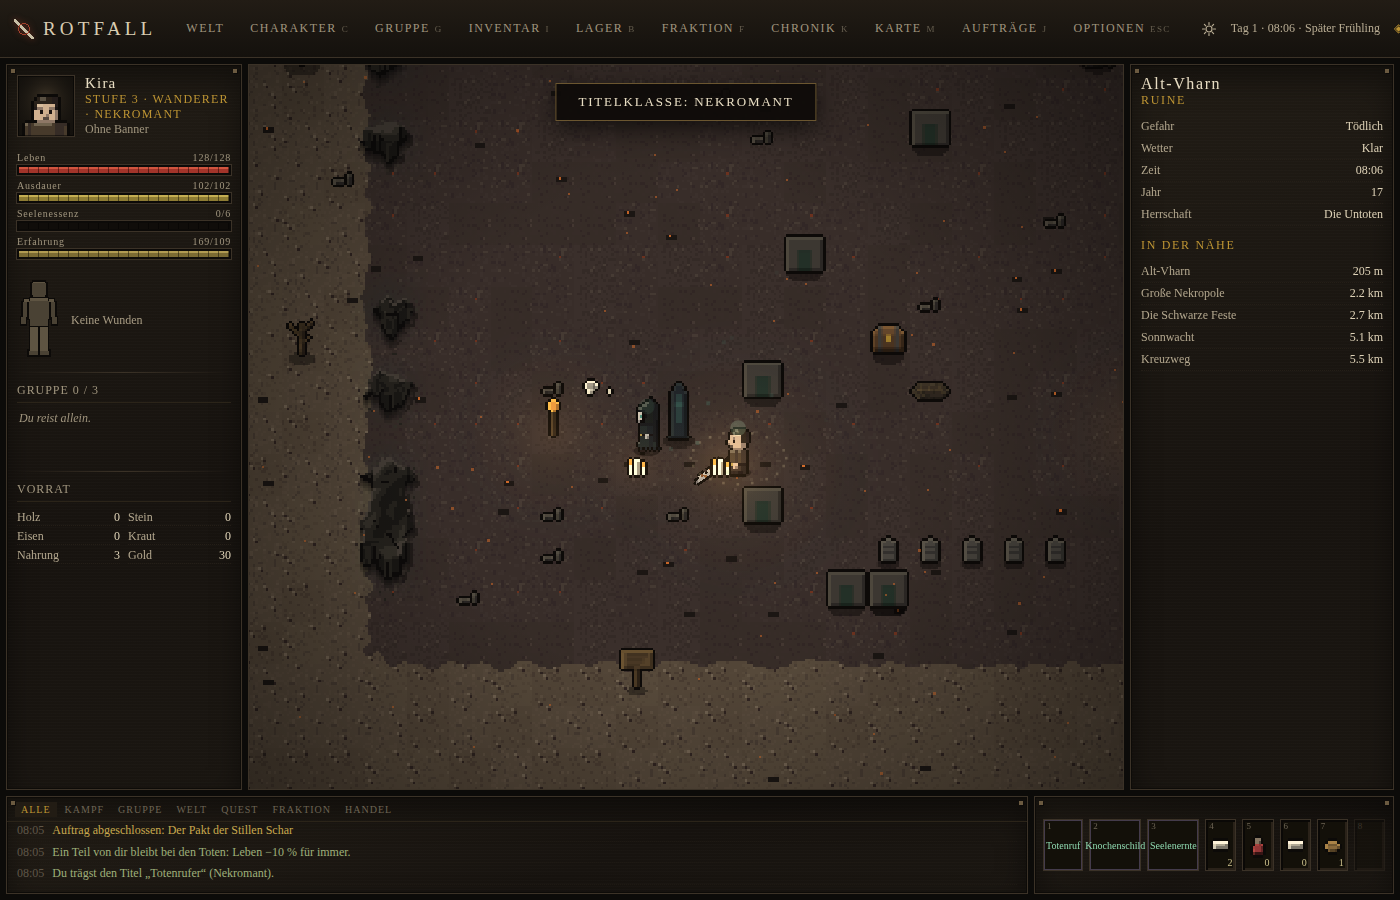
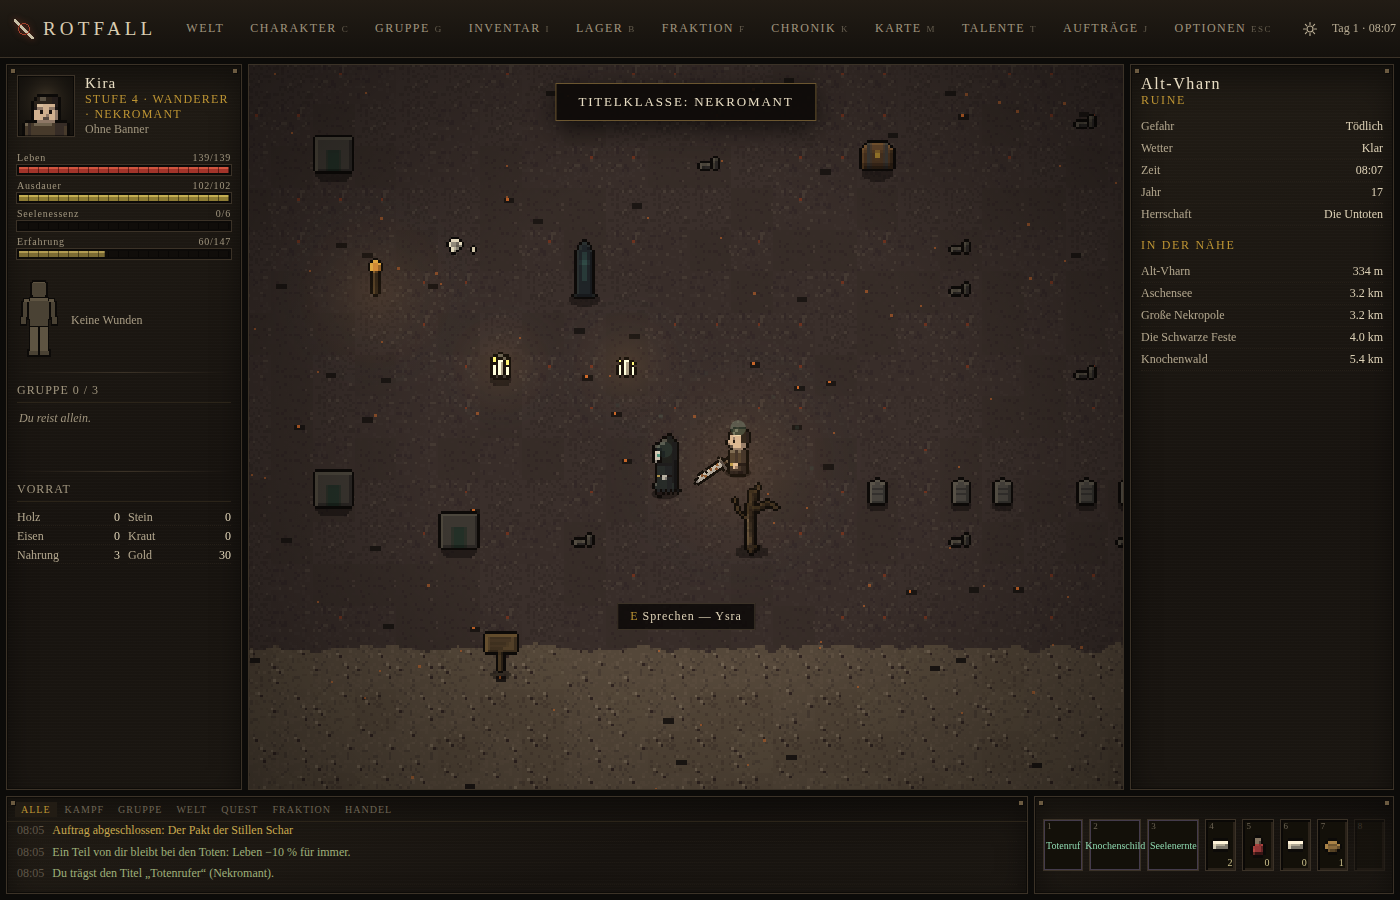
Doku Session 5: GDD, Bug-Ledger, Changelog, Session-Log, Phasenstatus, Datenschemata
Claude-Session: https://claude.ai/code/session_01AKcDTfw4AAQjG6Z4WrECqU

diff --git a/docs/GDD.md b/docs/GDD.md
@@ -33,7 +33,7 @@ Entscheidung (Master-Prompt §21, Optionen A/B, keine stille Variante D):
 | Wolf, Wildschwein | nein | **B — lauert** 90 Spielminuten am Eingang; kommt der Spieler zurück, greift es sofort an. Danach misstrauisch zurück (Sichtweite ×1,5 für 5 h) |
 | Gorak (Boss) | nein | **Hält seine Halle**: verlässt die Grube nie, bricht die Jagd ab (Arena-Bindung als bewusste Designentscheidung) |
 | Wächter der Nekropole | ja | **A — folgt** (Untoter; steigt nur aus der Gruft, wenn ein Fremder die Urne holen will) |
-| Diener (Nekromant) | — | folgen ihrem Herrn nicht über Kartengrenzen; der Ruf verklingt nach 60 s ohnehin (flüchtig, nie gespeichert) |
+| Diener (Nekromant), Geisterwolf (Druide) | — | **gehen mit ihrem Herrn** durch jeden Eingang (Session 5); flüchtig, nie gespeichert |
 
 - Verfolger: nur wer den Spieler ins Visier hatte (Aggro/Verfolgung) und < 560 px entfernt war.
 - Enge Tür: höchstens 4 Folgende, weitere lauern draußen.
@@ -188,8 +188,36 @@ der Durchgangsstraße bzw. an Fluss/Kai, damit Weltstraßen anschließen und kei
 - Der alte Kern (aus der ersten Generierung) zieht beim Ausbau mit um; Straßenstücke, die dadurch ins Leere liefen, werden
   per Breitensuche an das Stadtnetz angeschlossen; jede Tür bekommt einen Trampelpfad (verlassene Häuser nicht).
 - Eine Siedlung hat eine Region (die ihres Ankers) — für Farbwelt und Klang.
-- Nicht getan: die Weltkarte selbst (512×512) ist nicht größer geworden. Zwischen Eren und Nordfurt liegen jetzt ~18 statt
-  ~24 Kacheln (Fluss, Brücke). Eine größere Karte bräuchte ein neues Spielstandformat → Rückfrage an den Nutzer.
+- Session 5: die Karte selbst ist jetzt 1,5× größer (siehe „Weltmaßstab“), die Städte sind zusätzlich um ~15 % gestreckt
+  (Eren 1,4×1,5, Nordfurt 1,7, Salzhafen 1,45, Kreuzweg 1,5, Aschfurt 1,7, Sonnwacht 1,45) und bekommen **Randhäuser**
+  nach Regeln statt Koordinaten (`outskirts`: freier Grund, ≥ 3 Kacheln zu jedem Haus, ≥ 2 zum Rand, Tür zur nächsten
+  Straße ≤ 8 Kacheln, Kandidaten in Hash-Reihenfolge — deterministisch, nicht im Raster). Eren–Nordfurt: ~37 Kacheln (vorher ~18).
+
+## Weltmaßstab (Session 5 — Nutzerwunsch: „die Weltkarte soll größer werden, damit mehr Häuser und mehr Abstand möglich sind“)
+**Entscheidung: hochrechnen statt neu zeichnen.** Die Welt wird wie bisher im Entwurfsmaßstab 512×512 erzeugt — alle
+handgesetzten Orte, Straßen, Szenen und der Grubenpfad stehen so im Code und bleiben lesbar — und dann um `WS = 1,5`
+auf 768×768 hochgerechnet (`resampleWorld`): Gelände per nächstem Nachbarn (Straßen/Flüsse/Mauern 1–2 Kacheln breit),
+Props auf die Mitte ihrer Entwurfskachel, Zäune/Palisaden lückenlos nachgezogen, Wälder mit Hash nachverdichtet
+(sonst ×2,25 dünner). Erst danach entstehen die Städte im Weltmaßstab — Häuser verzerren nie.
+- `worldPt(x, y)`: Entwurfspunkt → Weltkachel (in Städten über deren Streckung). Alle festen Koordinaten in game.js/sim.js
+  (Spawngebiete, Wachposten, Arbeitsplätze, Karawane, Start, Ankunft an der Grube) laufen darüber.
+- Spawngebiete wachsen mit (Radius ×1,5, Deckel ×1,25) → Gegnerdichte je Fläche sinkt: mehr Ruhe zwischen Begegnungen.
+- Warum 1,5 und nicht 2: Generierung, Spielstand (1,1 → 1,4 MB) und Wegfindung wachsen quadratisch; 1,5 verdoppelt die
+  Fläche und hält Update ≤ 1,7 ms. Die Grube (Innenkarte) bleibt unverändert.
+- Spielstand v3; v2 wird umgerechnet (siehe CHANGELOG), v1 bleibt inkompatibel.
+
+## Skill-Baum (Session 5)
+- 1 Talentpunkt zum Start und je Stufe (alte Stände: Stufe − 1 rückwirkend). Knoten brauchen **einen** gelernten Knoten
+  darüber (Pfade statt Pflichtketten). Daten: `SKILL_TREE`/`SKILL_BRANCHES` (data.js), Fenster „Talente“ (T).
+- **Allgemeine Zweige** Kampf / Magie / Überleben, je 7 Knoten (Leben, Schaden, Rüstung, Krit, Ausdauer, Mana, Abklingzeit,
+  Zauberschaden, Heilung, Tempo, Ausweichen, Gepäck) und je 2 Schlüsselknoten, die einander nicht ausschließen, aber
+  jeder hat einen Preis: Berserker (+25 % Schaden unter 30 % Leben / +15 % erlittener Schaden), Bollwerk (Rüstung +30 % /
+  Tempo −10 %), Glaskanone (Zauber +30 % / Leben −15 %), Gelehrter Geist (Abklingzeit −15 % / Waffenschaden −15 %),
+  Zweiter Atem (Rettung unter 25 % alle 3 min / Leben −5 %), Wildnisläufer (draußen schneller / in Siedlungen langsamer).
+- **Titelzweige** (Nekromantie, Hexerei, Hainkunde) sind sichtbar, aber versiegelt, bis die Titelklasse erworben ist —
+  man soll sehen, wofür sich der Weg lohnt. Schlüsselknoten: Legion (3 Diener / Waffenschaden −20 %), Blutpakt
+  (Titelzauber +25 % / Verderbnis sinkt nie), Hüter des Hains (Wald +15 % Schaden, +3 Rüstung / Stein, Stadt −10 %).
+- Kein Zurücksetzen der Punkte (noch). Offene Frage: Umlernen gegen Gold bei einem Lehrer?
 
 ## Titelklassen (Session 4 — Nutzerwunsch: „Klassen, die man später freischaltet, wie Titel mit besonderen Fähigkeiten“)
 **Struktur.** Zwei Schichten statt einer:
@@ -233,11 +261,34 @@ wäre. Alte Stände: Hexenmeister-Grundklasse → Magier + Titel Hexenmeister (o
 ab Ruf −25 an, wenn sie ihn sehen (Leine und Buße wie sonst, danach 3 h misstrauisch statt sofort wieder zornig).
 Bewohner der Städte grüßen anders (je Stadt eine Zeile, dazu drei allgemeine).
 
-**Geplante weitere Titelklassen (nicht umgesetzt, Vorschlag):** Druide (Ressource „Wildkraft“ nur in der Natur; Tat:
-den Waldschrein gegen die Toten halten), Kopfgeldjäger („Fährte“ je markiertem Ziel; braucht das Kopfgeldsystem aus
+**Session 5 — Druide und Obergrenze.** Höchstens **2 Titelklassen** je Figur (`MAX_TITLES`, Nutzerwunsch), getragen wird
+eine (Wechsel im Ausbildungsfenster, nicht mitten im Kampf); die Talentzweige beider gelten. Nekromant und Hexenmeister
+schließen einander weiter aus — ein Totenpakt plus der Druide ist erlaubt (Mira: „Der Wald hat schon Schlimmeres
+überwachsen.“). Der Totenpakt überdeckt das Grün des Hains in den Augen.
+
+| | Druide |
+|---|---|
+| Ressource | **Wildkraft** 0–100: wächst von selbst (+5/s), aber nur draußen auf Gras, Erde, Sumpf; Stadt, Stein, Asche, Grube: Stillstand |
+| Fähigkeiten | Rankenfessel (25: Ziel 3 s festgehalten) · Geisterwolf (40: Wolf kämpft 30 s mit) · Erdsegen (30: Gruppe heilt 8 s) |
+| Passiv | Waldgänger: draußen in der Natur 0,5 Leben/s |
+| Makel | Metall erstickt: in Ketten-/Plattenpanzer wächst Wildkraft halb so schnell |
+| Preis | Stärke −1 für immer |
+| Freischaltung | „Der Ruf des Hains“: Mira im Alten Hain (Westwald) — 4 Wölfe vertreiben, 3 Heilkraut für die Quelle, Ritual |
+
+**Geplante weitere Titelklassen (nicht umgesetzt, Vorschlag):** Kopfgeldjäger („Fährte“ je markiertem Ziel; braucht das Kopfgeldsystem aus
 Phase 17), Barde („Inspiration“ aus Treffern der Gruppe; Tat in einer Schenke), Mönch („Fokus“ aus Ausweichen im
 letzten Moment), Alchemist („Tinkturen“, an Feuerstellen gebraut), Todesritter (liegt als Grundklasse ohne Lehrer im
 Klassenbaum — Kandidat, als Titel der Stillen Schar neu gedacht zu werden). Jede braucht zuerst eine Tat in der Welt.
+
+## Totenreich (Session 5 — „erweitere das Totenreich“)
+- Größer: zwei neue Aschland-Zentren (Ostküste, Aschensee). Neue Orte: **Knochenwald** (Stufe 3, dichter toter Wald,
+  Skelette und Wölfe, Lager der Grabräuber), **Aschensee** (Stufe 3, schwarzes Wasser, **Seelenbrunnen**: einmal am Tag
+  Essenz voll bzw. Verderbnis weg), **Vharnholm, Stadt der Stillen** (Stufe 1 — der einzige ruhige Ort im Reich).
+- Vharnholm macht das Fraktionsbild wahr („eine Zivilisation, keine Monsterschar“): untote Bewohner mit eigenen Berufen,
+  Stille Wächter, Markt, Seelenobelisk. Sael (Totenschreiber) handelt nur mit Mitgliedern der Schar oder Paktgebundenen
+  und vergibt „Grabräuber in der Asche“ (5 Grabräuber, Untote +15) — ein zweiter Weg zum Ansehen neben Morvath.
+- **Regel: gleiche Fraktion bekämpft sich nicht** (außer zornig oder Diener). Vorher flohen untote Figuren (Morvath) vor
+  den Skeletten ihrer eigenen Fraktion und verweigerten deshalb das Gespräch.
 
 ## Offene Designfragen
 - Rarität/Affixe, Skill Tree, Klassen: siehe PHASE_STATUS (Phasen 8–10).

diff --git a/docs/CHANGELOG.md b/docs/CHANGELOG.md
@@ -2,6 +2,48 @@
 
 Neueste oben. Je Eintrag: was, warum, welche Bugs. Refactorings nennen den Grund (Master-Prompt §2, Punkte 1–4).
 
+## Session 5 — 2026-09-25 · Größere Welt, Skill-Baum, Druide, Totenreich
+
+Nutzerwunsch: Weltkarte größer (mehr Häuser, mehr Abstand), Diener folgen, Skill-Baum mit allgemeinen Knoten und eigenen
+Zweigen der Titelklassen, höchstens 2 Klassen je Figur, Totenreich erweitern. Fünf Commits, je Thema einer.
+
+### Weltmaßstab (world.js, game.js, sim.js, state.js)
+- **Refactoring nach §2, Punkt 1** (blockiert die geforderte Erweiterung): ~300 feste Koordinaten der Generierung stehen
+  im 512er-Maßstab. Statt sie umzuschreiben: `resampleWorld` rechnet die fertige Entwurfswelt auf 768×768 hoch, Städte
+  werden danach im Weltmaßstab gebaut (`sp`: Anker × WS, Streckung wie geplant). `phase` trennt Entwurf und Laufzeit
+  (`regionAt`, `seaLine`, `naturalAt` rechnen Weltkacheln auf den Entwurf zurück).
+- `worldPt`/`wT`/`dT`; `townPt` bleibt als Alias. SPAWN_AREAS, Ankunft an der Grube, Lila, Startgebiet, Karawanen-
+  Hinterhalt laufen über den Maßstab. `grow`-Einträge mit `s0` umgerechnet; neue `outskirts` (Randhäuser nach Regeln).
+- Spielstand v3: `rescaleSave` — Props neu (Truhenzustand über Typ+Etikett+Nähe), Figuren/Gegner/Gräber/Gegenstände/
+  Karawanen/Lager ×1,5, Bewohner neu, Wachen auf neue Posten, wer in Mauer stünde, tritt heraus.
+- Messung (headless, 300 Frames): Update Eren 1,2 → 1,7 ms, Nordfurt 0,9 → 1,3 ms (Budget 3,0); Spielstand 1,1 → 1,4 MB.
+
+### Diener (game.js)
+- travel(): Diener gehen wie Gruppenmitglieder mit durch jeden Eingang.
+
+### Skill-Baum (data.js, game.js, ui.js, style.css)
+- `SKILL_TREE`/`SKILL_BRANCHES`, `treeFx`/`node`/`nodeState`/`learnNode`; Wirkung in recalc, damageOf, armorOf, speedOf,
+  hit (Krit), hurt (Berserker, Zweiter Atem), Regeneration, Heilgegenständen, Ausweichen, Abklingzeiten, Zauber- und
+  Titelzauberschaden, Titelknoten (Dienerzahl/-dauer/-leben, Essenzgrenze, Fluch, Chaosblitz, Entfesseln, Blutpakt,
+  Ranken, Geisterwolf, Erdsegen, Hüter des Hains). Fenster „Talente“ (T, auch im Menü), Talente im Charakterbogen.
+- Stufenaufstieg vergibt 1 Talentpunkt; mehrere Stufen auf einmal werden jetzt vergeben (BUG-054).
+
+### Druide, Obergrenze (data.js, game.js, world.js, ui.js)
+- Titelklasse Druide (Wildkraft, Rankenfessel, Geisterwolf, Erdsegen, Waldgänger, Metall erstickt, Stärke −1),
+  Quest „Der Ruf des Hains“, Mira, Alter Hain im Westwald (`groveScene`). `MAX_TITLES = 2`, Titelwechsel nicht im Kampf.
+
+### Totenreich (world.js, game.js, data.js, buildings.js, render.js)
+- Zwei Aschland-Zentren; `deadScenes` (Knochenwald, Aschensee, Seelenbrunnen); Stadtplan Vharnholm (Stil blackstone/
+  bone, untote Bewohner `DEAD_TRADES`, Stille Wächter), Sael mit eigenem Warenpool (`npc.pool`, Orte ohne Markt),
+  Quest „Grabräuber in der Asche“, Seelenphiole (`use:'soul'`), Seelenbrunnen (`rite:'soulwell'`), Spawngebiete.
+- Gleiche Fraktion bekämpft sich nicht (isHostile, Bedrohungssuche) — BUG-055.
+- Tote Bäume neu gezeichnet (BUG-056). `planned`-Props im Stadtplan sind keine Wildnis-Streu.
+
+### Tests
+- Selbsttest 54 → 60: Weltmaßstab/Erreichbarkeit, Diener durch Eingänge, Skill-Baum-Daten, Skill-Baum-Wirkung, Druide +
+  Obergrenze, Totenreich (Fraktionsfrieden, Brunnen, Phiole). Gegenproben für Diener und Fraktionsregel. Grün auf 5 Seeds
+  und auf zwei alten v2-Ständen. Druiden- und Nekromanten-Kette über die Oberfläche durchgespielt.
+
 ## Session 4 — 2026-09-25 · Siedlungsdichte (§75) und Titelklassen (§32/§78)
 
 Nutzerwunsch: „Klassen, die man später freischalten kann, wie Titel mit besonderen Fähigkeiten“ — Ressourcen und

diff --git a/docs/PHASE_STATUS.md b/docs/PHASE_STATUS.md
@@ -1,6 +1,6 @@
 # Phasenstatus — Rotfall: Legacy
 
-Letzte Aktualisierung: Session 4 (2026-09-25). Nächster Einstieg: SESSION_LOG.md → offene HIGH-Einträge in BUGS.md.
+Letzte Aktualisierung: Session 5 (2026-09-25). Nächster Einstieg: SESSION_LOG.md → offene HIGH-Einträge in BUGS.md.
 
 | # | Phase | Status | DoD erfüllt | Fehlt noch |
 |---|---|---|---|---|
@@ -13,14 +13,14 @@ Letzte Aktualisierung: Session 4 (2026-09-25). Nächster Einstieg: SESSION_LOG.m
 | 6 | Animation & Combat Polish | IN ARBEIT | teilweise | Session 3: Taumeln/Unterbrechen, rutschender Rückstoß, Interaktionsposen. Treffer-Klang je Material. Offen: Sitzen/Handeln-Posen; Klänge vom Nutzer gegenhören lassen |
 | 7 | Weapon Expansion | NICHT BEGONNEN | — | |
 | 8 | Rarity & Loot | NICHT BEGONNEN | — | Rarität ist nur Etikett |
-| 9 | Skill Tree | NICHT BEGONNEN | — | |
-| 10 | Classes | IN ARBEIT | teilweise | Session 4: Titelklassen-System + Nekromant/Hexenmeister (§78 DoD erfüllt bis auf „alle leeren Totenreich-Flächen“). Weitere Titelklassen nur als Entwurf |
+| 9 | Skill Tree | IN ARBEIT | teilweise | Session 5: 3 allgemeine + 3 Titelzweige, Schlüsselknoten mit Preis/Absicht. Offen: Umlernen, Balancing im Spiel |
+| 10 | Classes | IN ARBEIT | teilweise | Titelklassen Nekromant/Hexenmeister/Druide, max. 2 je Figur, Titelzweige im Skill-Baum (§78 Keystone ✓). Weitere Titelklassen nur Entwurf |
 | 11 | Enemy Expansion | NICHT BEGONNEN | — | |
 | 12 | Bosses | NICHT BEGONNEN | — | |
 | 13 | Cities | IN ARBEIT | teilweise | Session 4: Siedlungsdichte §75 erfüllt (Abstand, Fläche, Einwohner nach Größe). Landmarken, Händler je Stadt, Quests fehlen |
 | 14 | Dungeons | NICHT BEGONNEN | — | BUG-009 Tiefhall |
 | 15 | NPCs & Wildlife | IN ARBEIT | — | Bewohner mit Tagesablauf ✓; benannte NPCs, Tiere offen |
-| 16 | World Simulation | NICHT BEGONNEN | — | BUG-011 Karawane |
+| 16 | World Simulation | IN ARBEIT | — | Session 5: Totenreich erweitert (Vharnholm, Knochenwald, Aschensee). BUG-011 Karawane offen |
 | 17 | Factions & Consequences | NICHT BEGONNEN | — | Kopfgeld |
 | 18 | Audio & Atmosphere | NICHT BEGONNEN | — | Schmiede-/Tavernengeräusche an Gebäude koppeln |
 | 19 | UI Polish | IN ARBEIT | — | Touch-Steuerung ✓ (Session 3, Gerätetest offen) |
@@ -58,11 +58,11 @@ Letzte Aktualisierung: Session 4 (2026-09-25). Nächster Einstieg: SESSION_LOG.m
 ## §78 Nekromant/Hexenmeister — Definition of Done (Session 4)
 - [x] 5 Stufen (Kontakt, Prüfung, Entscheidung, Initiation, Titelklasse), kein Einzeldialog
 - [x] Pfade unterscheiden sich in Ressource, Ton, Fähigkeiten, Makel, Preis
-- [~] Totenreich: 3 Orte gefüllt (Ahnenaltar, Schattenkreis, Gruft mit Wächter); weitere leere Flächen bleiben
+- [x] Totenreich: Ahnenaltar, Schattenkreis, Gruft (S4) + Vharnholm, Knochenwald, Aschensee/Seelenbrunnen (S5)
 - [x] Ordensreaktion getestet (Gespräch verweigert, Wachen greifen an)
 - [x] Sichtbares Merkmal (glimmende Augen), nicht nur Variable
-- [ ] Skill-Tree-Keystone — es gibt noch keinen Skill Tree (Phase 9)
+- [x] Skill-Tree-Keystone (Legion bzw. Blutpakt), erst nach der Freischaltung erreichbar (Session 5)
 - [x] Unumkehrbarkeit im GDD dokumentiert
 
 ## Nächster sinnvoller Schritt
-Rückmeldung des Nutzers zu Städten und Titelklassen; Frage Kartengröße. Danach BUG-011 Karawane, BUG-009 Tiefhall, BUG-017 Spielstandgröße.
+Rückmeldung des Nutzers zur großen Karte (Reisewege). Dann BUG-017/057 Spielstandgröße, BUG-011 Karawane, BUG-009 Tiefhall.

diff --git a/docs/BUGS.md b/docs/BUGS.md
@@ -351,6 +351,34 @@ dazu Code-Lesen der KI-, Übergangs- und Weltgenerierungspfade.
 - Alt-Vharn: Ysra am Ahnenaltar mit Namenssteinen; Nekromanten-Turm: Vhal im Schattenkreis; Große Nekropole: Gruft als
   Ritualort mit Wächter. Weitere leere Flächen bleiben (→ Phase 16). CONTENT · MEDIUM · IN ARBEIT
 
+## Session 5 — Weltmaßstab, Skill-Baum, Druide, Totenreich
+
+### BUG-052 — Weltkarte zu klein für mehr Häuser und Abstand (Nutzerbefund)
+- 512×512, Eren–Nordfurt ~18 Kacheln nach der Streckung. Lösung: Weltmaßstab 1,5 (768×768), Städte weitere 15 %,
+  Randhäuser. Spielstand v3 mit Umrechnung. WORLD LOGIC · HIGH · VERIFIZIERT (Selbsttest „Weltmaßstab“, 5 Seeds, 2 alte Stände)
+
+### BUG-053 — Diener folgten nicht durch Eingänge (offen aus Session 4)
+- Lösung: travel() nimmt Diener mit. SZENENÜBERGANG · MEDIUM · VERIFIZIERT (Selbsttest mit Gegenprobe)
+
+### BUG-054 — Viel Erfahrung auf einmal gab nur eine Stufe („169/109“ in der Leiste)
+- Ursache: `if` statt Schleife in gainXp. Lösung: while. GAMEPLAY · LOW · BEHOBEN
+
+### BUG-055 — Untote Figuren flohen vor Skeletten der eigenen Fraktion
+- Reproduzierbar: JA (Session 4, Morvath: „Nicht jetzt — siehst du nicht, was hier los ist?!“, weil ein Skelett in der
+  Nähe als Bedrohung zählte). Ursache: Bedrohung = Team „Feind“, Fraktion spielte keine Rolle.
+- Lösung: gleiche Fraktion ist nie feindlich (außer zornig/Diener), Bedrohungssuche überspringt die eigene Fraktion.
+- AI / FACTION · HIGH (blockierte die Pakt-Quest je nach Lage) · VERIFIZIERT (Selbsttest mit Gegenprobe)
+
+### BUG-056 — Tote Bäume als dünner 20-px-Strich (Wüste, Totenreich wirkten leer)
+- Lösung: drei Wuchsformen in Baumgröße, im Totenreich teils mit aufgehängten Knochen. VISUAL · MEDIUM · BEHOBEN (Bild)
+
+### BUG-057 — Spielstand wächst mit der Karte (1,1 → 1,4 MB) — gehört zu BUG-017
+- Ursache wie BUG-017: alle ~8300 Props werden gespeichert, auch unveränderte. SAVE-LOAD · MEDIUM · OFFEN (Phase 20)
+
+### BUG-051 — Leeres Totenreich — Stand
+- Session 5: Vharnholm, Knochenwald, Aschensee, Seelenbrunnen, Grabräuber. Die Ostküste nördlich des Knochenwalds und
+  die Grenzöde bleiben dünn. CONTENT · MEDIUM · IN ARBEIT
+
 ## Design-Lücken (kein Fehler im engeren Sinn, aber Master-Prompt-Anforderung)
 - Rarität ist nur Etikett/Farbe (5 Stufen, kein Mythic, keine Affixe) → Phase 8.
 - Kein Skill Tree (Klassenkette + Fertigkeitswerte) → Phase 9.

diff --git a/docs/DATA_SCHEMAS.md b/docs/DATA_SCHEMAS.md
@@ -120,3 +120,21 @@ necromancer: { name, title /* Namenszusatz */, glow /* Merkmal */, faction, excl
 ```
 Spieler-Laufzeitfelder: `titleClasses` (erworben), `titleClass` (getragen oder null), `tres` ({ essence, corruption }),
 `pactCost` ({ hpMul, stamina }), `pal.glow`. Diener: Gegner mit `servant` (Herr-id), `until`, `glow`, `transient`.
+
+## Weltmaßstab — Session 5
+```js
+WS = 1.5; wT(v) = floor((v + 0.5) * WS); dT(v) = floor(v / WS)   // Entwurfskachel ↔ Weltkachel
+worldPt(x, y) → [wx, wy]     // Entwurfspunkt; in Städten über deren Streckung (sp = a·WS + (v − a)·s)
+TOWN_PLAN[k].outskirts = ['cottage', 'house', …]   // Randhäuser nach Regeln (Anzahl = Länge), Typ bestimmt Größe (HOUSE_SIZE)
+TOWN_PLAN[k].grow.s0 = 1.5   // Maßstab, in dem grow-Koordinaten gebaut wurden (Umrechnung s/s0 um den Anker)
+props[i].planned = true      // Teil des Stadtplans, auch wenn der Typ sonst Wildnis-Streu wäre (Knochenturm, Namensstein)
+```
+
+## Skill-Knoten (`SKILL_TREE`) — Session 5
+```js
+k_legion: { branch: 'necromancer', row: 2, type: 'keystone' /* oder 'notable', sonst klein */, name, desc,
+  fx: { hp, stam, mana, dmg, armor, crit, speed, spell, cdr, heal, regen, manaRegen, dodge, invCap } /* additiv */,
+  requires: ['n_cold'] /* einer genügt, [] = Einstieg */, designIntent /* Pflicht bei keystone */ }
+SKILL_BRANCHES[b] = { name, desc, title? /* Zweig versiegelt ohne diese Titelklasse */ }
+```
+Spieler: `skillPoints`, `tree` ({ knoten: 1 }), `tfx` (Laufzeit-Summe). Titelklasse: `MAX_TITLES = 2`, `cost.attr`.

diff --git a/docs/SESSION_LOG.md b/docs/SESSION_LOG.md
@@ -2,6 +2,19 @@
 
 Neueste oben.
 
+### Session 5 — 2026-09-25 · Größere Welt, Skill-Baum, Druide, Totenreich (Nutzerwunsch)
+**Vorgefunden:** Selbsttest 54/54; offen: Karte nicht vergrößert, Diener folgen nicht, kein Skill-Baum, Totenreich dünn.
+**Gemacht:** Welt 768×768 (Hochrechnung aus dem Entwurf, Spielstand v3 mit Umrechnung), Städte +15 % gestreckt mit
+Randhäusern; Diener folgen durch Eingänge; Skill-Baum (3 allgemeine Zweige + 3 Titelzweige, 6+3 Schlüsselknoten);
+Druide als dritte Titelklasse, höchstens 2 je Figur; Totenreich mit Vharnholm, Knochenwald, Aschensee, Quest. 60/60.
+**Gefundene neue Probleme:** BUG-052–057 (057 Spielstandgröße offen), BUG-055 war ein echter Blocker der Pakt-Quest.
+**Offen geblieben:** Spielstand 1,4 MB (nur geänderte Props speichern → Phase 20); kein Umlernen im Skill-Baum; Ostküste
+und Grenzöde des Totenreichs noch dünn; Kopfgeldjäger/Barde/Mönch/Alchemist nur Entwurf; Headless-Zeichenzeit ist kein
+verlässlicher Wert — im echten Browser gegenmessen.
+**Nächster Schritt:** Nutzer spielt die neue Karte an (Wege sind länger — zu lang?). Danach BUG-017/057 Spielstand,
+dann BUG-011 Karawane.
+Beim Start: `index.html?dev&test` → `RF.selftest()` muss 60/60 melden.
+
 ### Session 4 — 2026-09-25 · Siedlungsdichte + Titelklassen (Nutzerwunsch)
 **Vorgefunden:** Phasen 0–4 abgeschlossen, 5 im Test, 6/13/15/19 in Arbeit; Selbsttest 46/46. (SESSION_LOG hatte nur
 Session 1 — Sessions 2 und 3 stehen im CHANGELOG.)
